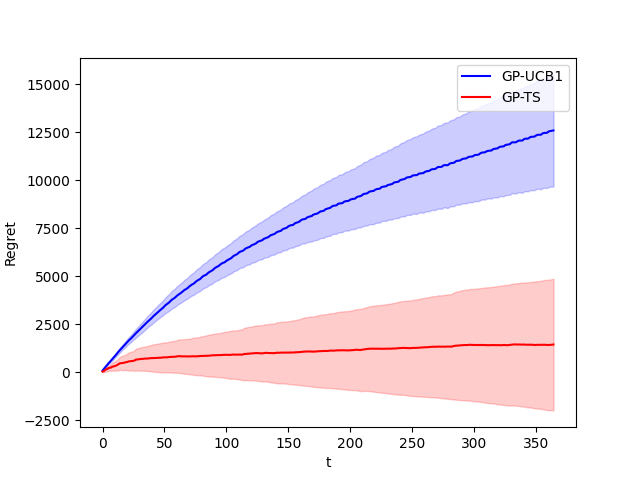
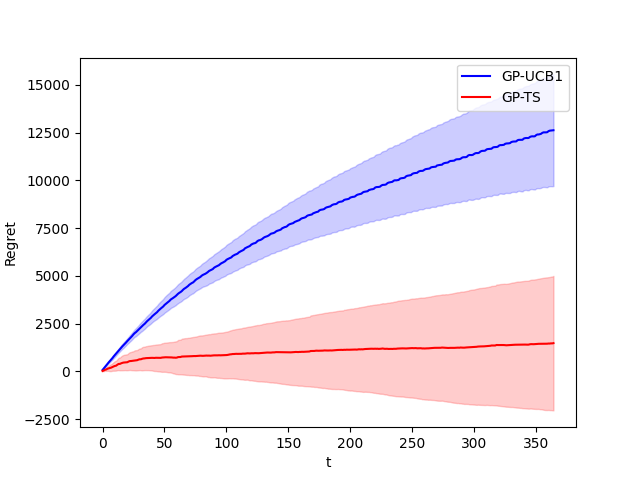
M fix

diff --git a/Step_3.py b/Step_3.py
@@ -32,7 +32,7 @@ gpucb1_rewards_per_experiment = []
 for e in range(0, n_experiments):
     env = PricingBiddingEnvironment(actions=action_space, bids=bids, sigma = sigma, user=UserC1())
     gpts_learner = GPTS_Learner(n_arms = n_arms, bids = action_space)
-    gpucb1_learner = GPUCB1_Learner(n_arms = n_arms, bids = action_space, M = max_bid)
+    gpucb1_learner = GPUCB1_Learner(n_arms = n_arms, bids = action_space, M = np.max(action_space[:,0]*action_space[:,1]))
     for t in range(0, T):
         # GP UCB1 Learner
         pulled_arm = gpucb1_learner.pull_arm()
